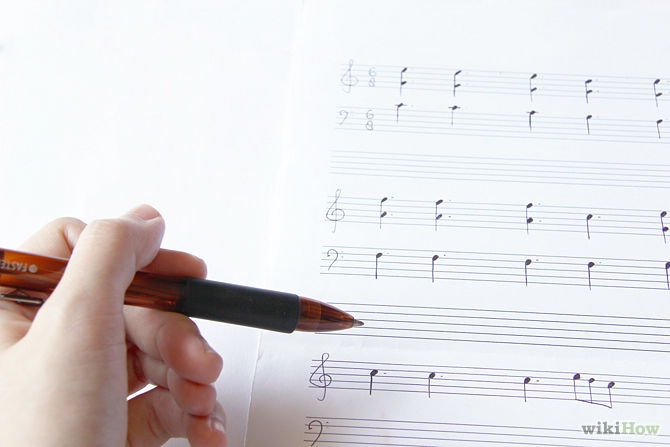
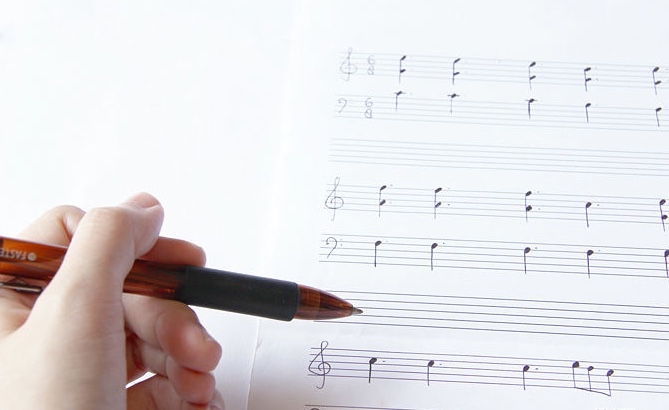
Update images: use better hero image for new blog post
Remove the WikiHow watermark from the old blog post.

diff --git a/_posts/2016-11-09-composer-mailchimp-subscriptions-v3-api.md b/_posts/2016-11-09-composer-mailchimp-subscriptions-v3-api.md
@@ -5,7 +5,7 @@ date: 2016-11-09
 author: Dan Murphy
 tags: drupal drupal-planet composer module-development mailchimp
 summary: How to use Composer along with the ThinkShout PHP library for MailChimp API v3.0 to easily subscribe users to mailing lists without the MailChimp contributed module.
-featured_image: "/blog/sheet-music.jpg"
+featured_image: "/blog/mailchimp_3_drupal_composer_3.jpg"
 featured_image_alt: "sheet music"
 featured_image_height: "983px"
 featured_image_width: "1474px"
